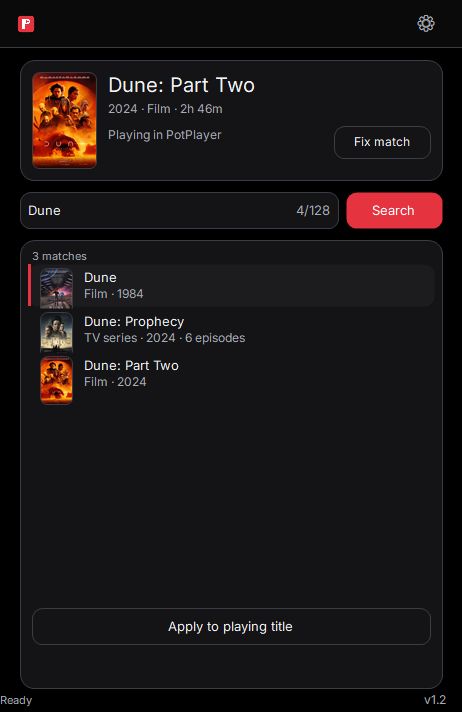
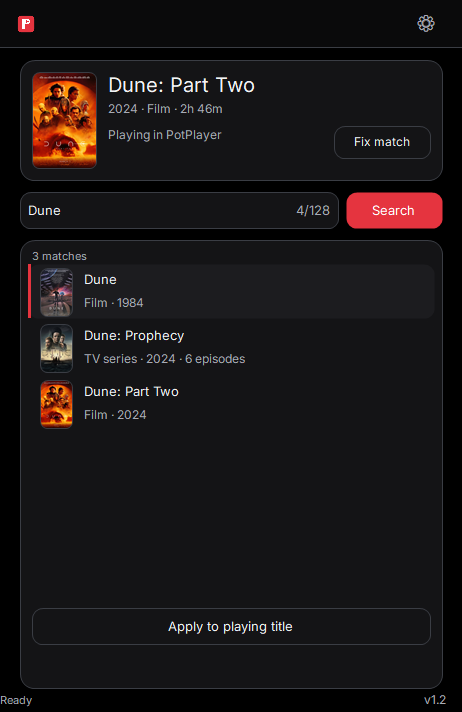
fix(window): every result thumb fills its tile and shows whole

Changed region(s): [[0.0606, 0.3708, 0.5455, 0.618], [0.0909, 0.3708, 0.1515, 0.4017], [0.0606, 0.1545, 0.0909, 0.1854]]

diff --git a/rust/crates/potflix-win/src/artwork.rs b/rust/crates/potflix-win/src/artwork.rs
@@ -164,6 +164,39 @@ pub fn ensure_async(url: &str) {
     });
 }
 
+/// The source and destination rects for one cover blit into `slot`: the image
+/// is scaled to COVER the slot and centre-cropped, so every source fills the
+/// tile edge to edge whatever its aspect ratio is -- a landscape still fills a
+/// portrait slot instead of letterboxing or being stretched out of shape.
+/// `src` is in image pixels, `dst` is `slot` itself. `None` on a degenerate
+/// image or slot (nothing to draw).
+#[must_use]
+pub fn cover_rects(img_w: u32, img_h: u32, slot: win32::Rect) -> Option<(win32::Rect, win32::Rect)> {
+    let slot_w = i64::from(slot.right - slot.left);
+    let slot_h = i64::from(slot.bottom - slot.top);
+    if img_w == 0 || img_h == 0 || slot_w <= 0 || slot_h <= 0 {
+        return None;
+    }
+    let (iw, ih) = (i64::from(img_w), i64::from(img_h));
+    // Compare the two aspects without floats: iw/ih > sw/sh <=> iw*sh > ih*sw.
+    // The wider side gives up its excess, so the source always carries the
+    // slot's aspect and the blit never has a band to leave behind.
+    let (src_w, src_h) = if iw * slot_h > ih * slot_w {
+        ((ih * slot_w + slot_h / 2) / slot_h, ih)
+    } else {
+        (iw, (iw * slot_h + slot_w / 2) / slot_w)
+    };
+    let src_w = src_w.clamp(1, iw);
+    let src_h = src_h.clamp(1, ih);
+    let src = win32::Rect {
+        left: ((iw - src_w) / 2) as i32,
+        top: ((ih - src_h) / 2) as i32,
+        right: ((iw + src_w) / 2) as i32,
+        bottom: ((ih + src_h) / 2) as i32,
+    };
+    Some((src, slot))
+}
+
 /// One decoded cover. The GDI+ image lives until the frame's paint returns;
 /// [`Drop`] disposes it exactly once.
 pub struct Cover {
@@ -221,15 +254,21 @@ impl Cover {
     }
 
     /// Draw the cover into `rc` through the live GDI+ context. A rounded clip
-    /// keeps the tile's corner shape; the image is scaled to fill the rect.
+    /// keeps the tile's corner shape; the image is scaled to COVER the rect and
+    /// centre-cropped (see [`cover_rects`]), so a landscape source fills a
+    /// portrait tile instead of letterboxing inside it.
     pub(crate) fn draw(&self, graphics: *mut gp::GpGraphics, rc: win32::Rect, radius: i32) {
         use gp::{
             CombineModeReplace, GdipAddPathArcI, GdipClosePathFigure, GdipCreatePath,
-            GdipDeletePath, GdipDrawImageRectI, GdipResetClip, GdipSetClipPath, FillModeAlternate,
+            GdipDeletePath, GdipDrawImageRectRectI, GdipResetClip, GdipSetClipPath,
+            FillModeAlternate, UnitPixel,
         };
-        if graphics.is_null() || rc.right <= rc.left || rc.bottom <= rc.top {
+        if graphics.is_null() {
             return;
         }
+        let Some((src, dst)) = cover_rects(self.width, self.height, rc) else {
+            return;
+        };
         let mut path: *mut gp::GpPath = std::ptr::null_mut();
         // SAFETY: every handle is created and released within this call.
         unsafe {
@@ -247,13 +286,21 @@ impl Cover {
                 GdipClosePathFigure(path);
                 GdipSetClipPath(graphics, path, CombineModeReplace);
             }
-            GdipDrawImageRectI(
+            GdipDrawImageRectRectI(
                 graphics,
                 self.image as *mut gp::GpImage,
-                rc.left,
-                rc.top,
-                rc.right - rc.left,
-                rc.bottom - rc.top,
+                dst.left,
+                dst.top,
+                dst.right - dst.left,
+                dst.bottom - dst.top,
+                src.left,
+                src.top,
+                src.right - src.left,
+                src.bottom - src.top,
+                UnitPixel,
+                std::ptr::null(),
+                0,
+                std::ptr::null_mut(),
             );
             if r > 0 {
                 GdipResetClip(graphics);
@@ -282,6 +329,97 @@ mod tests {
         assert!(!is_http_url("file:///cover.png"));
         assert!(!is_http_url("https://"));
         assert!(!is_http_url(&format!("https://example.com/{}", "x".repeat(300))));
+    }
+
+    /// A cover must COVER its slot: the destination is the slot edge to edge
+    /// (no letterbox band, no stretch) and the source is a centre-biased crop
+    /// that carries the slot's own aspect. The result rows and the hero cover
+    /// both paint through this one geometry, so a landscape poster in a
+    /// portrait tile cannot read as a different shape than its neighbours.
+    #[test]
+    fn a_cover_crops_to_fill_its_slot_whatever_the_source_aspect() {
+        // The 32x48 result thumb: the portrait slot the rows use.
+        let slot = win32::Rect {
+            left: 10,
+            top: 20,
+            right: 42,
+            bottom: 68,
+        };
+        let slot_ratio = 32.0 / 48.0;
+
+        // A 16:9 still in a portrait slot: crop the sides, never letterbox.
+        let (src, dst) = cover_rects(1600, 900, slot).expect("a 16:9 cover has rects");
+        assert_eq!(
+            (dst.left, dst.top, dst.right, dst.bottom),
+            (10, 20, 42, 68),
+            "the tile is covered edge to edge, so no band can show"
+        );
+        assert_eq!(
+            (src.top, src.bottom),
+            (0, 900),
+            "a wide source keeps its full height and gives up the sides"
+        );
+        assert!(
+            (src.left - (1600 - src.right)).abs() <= 1,
+            "the crop is centre-biased: {}..{} of 1600",
+            src.left,
+            src.right
+        );
+        let src_ratio = f64::from(src.right - src.left) / f64::from(src.bottom - src.top);
+        assert!(
+            (src_ratio - slot_ratio).abs() < 0.02,
+            "the crop carries the slot's aspect {slot_ratio:.3}, got {src_ratio:.3}"
+        );
+
+        // A portrait poster (the common case) into the same slot: full width,
+        // crop the height.
+        for (w, h) in [(2000u32, 3000u32), (913, 1426)] {
+            let (src, dst) = cover_rects(w, h, slot).expect("portrait cover has rects");
+            assert_eq!((dst.right - dst.left, dst.bottom - dst.top), (32, 48));
+            assert_eq!(
+                (src.left, src.right),
+                (0, w as i32),
+                "a tall source keeps its full width"
+            );
+            assert!(
+                (src.top - (h as i32 - src.bottom)).abs() <= 1,
+                "the crop is centre-biased: {}..{} of {h}",
+                src.top,
+                src.bottom
+            );
+            let src_ratio = f64::from(src.right - src.left) / f64::from(src.bottom - src.top);
+            assert!(
+                (src_ratio - slot_ratio).abs() < 0.02,
+                "{w}x{h} crop carries the slot's aspect {slot_ratio:.3}, got {src_ratio:.3}"
+            );
+        }
+
+        // A square source is wider than this slot, so it gives up the sides and
+        // keeps its full height -- the same rule, not a special case.
+        let (src, _) = cover_rects(1000, 1000, slot).expect("square cover has rects");
+        assert_eq!((src.top, src.bottom), (0, 1000), "a square keeps its height");
+        assert!(
+            (src.left - (1000 - src.right)).abs() <= 1,
+            "the crop is centre-biased: {}..{} of 1000",
+            src.left,
+            src.right
+        );
+
+        // Degenerate input draws nothing rather than inventing a rect.
+        assert!(cover_rects(0, 900, slot).is_none());
+        assert!(
+            cover_rects(
+                1600,
+                900,
+                win32::Rect {
+                    left: 0,
+                    top: 0,
+                    right: 0,
+                    bottom: 48
+                }
+            )
+            .is_none()
+        );
     }
 
     #[test]

diff --git a/rust/crates/potflix-win/src/window.rs b/rust/crates/potflix-win/src/window.rs
@@ -13776,7 +13776,7 @@ fn picker_capacity(l: &CardLayout, dpi: i32) -> usize {
         return 0;
     }
     let top = l.picker_results.top + sc(24);
-    let row_h = sc(44);
+    let row_h = sc(RESULT_ROW_H_L);
     let action_rows = l
         .btns
         .iter()
@@ -13814,7 +13814,7 @@ fn picker_row_rects(l: &CardLayout, count: usize, top: usize, dpi: i32) -> Vec<R
     let first = top;
     let last = (first + capacity).min(count);
     let base = l.picker_results.top + sc(24);
-    let row_h = sc(44);
+    let row_h = sc(RESULT_ROW_H_L);
     (first..last)
         .enumerate()
         .map(|(pos, _)| Rect {
@@ -22487,6 +22487,51 @@ mod tests {
             COL_BG,
             "the result overlay was not painted over the stage"
         );
+    }
+
+    /// The result row must be tall enough for the cover thumb it paints. The
+    /// thumb is a fixed 32x48; a row shorter than that lets the NEXT row's
+    /// fill paint over the previous thumb's bottom edge, so the tile loses its
+    /// rounded bottom clip and its artwork is cut while the last row's tile is
+    /// whole -- one column, two shapes, which reads as a rendering bug.
+    #[test]
+    fn every_picker_row_contains_its_cover_thumb() {
+        for dpi in [96, 120, 144, 192] {
+            let l = compute_card_layout_state(
+                462 * dpi / 96,
+                712 * dpi / 96,
+                dpi,
+                &CardSpecs::default(),
+                CardKind::Series,
+                PreviewSurface::default(),
+                &CardLayoutState {
+                    advanced: false,
+                    has_selection: true,
+                    can_apply: true,
+                    playing: true,
+                    filter: crate::search::KindFilter::All,
+                },
+            );
+            let rows = picker_row_rects(&l, 3, 0, dpi);
+            assert_eq!(rows.len(), 3, "dpi {dpi}: the three rows are all visible");
+            for (i, rc) in rows.iter().enumerate() {
+                let t = narrow::result_row_thumb(*rc, dpi);
+                assert!(
+                    t.top >= rc.top && t.right <= rc.right,
+                    "dpi {dpi} row {i}: thumb {:?} starts inside the row {rc:?}",
+                    t
+                );
+                assert!(
+                    t.bottom <= rc.bottom,
+                    "dpi {dpi} row {i}: the thumb bottom {} overflows the row bottom {} \
+                     (row height {}, thumb height {})",
+                    t.bottom,
+                    rc.bottom,
+                    rc.bottom - rc.top,
+                    t.bottom - t.top
+                );
+            }
+        }
     }
 
     /// With Advanced open the picker viewport holds one row at the default

diff --git a/rust/crates/potflix-win/src/narrow.rs b/rust/crates/potflix-win/src/narrow.rs
@@ -313,6 +313,18 @@ pub fn hero(
 // `window::paint_narrow_card` (via the results panel loop).
 // ---------------------------------------------------------------------------
 
+/// The 32x48 cover thumb of one result row. Pure, so the paint and the test
+/// that proves the thumb fits inside the row read the same rect.
+pub fn result_row_thumb(rc: Rect, dpi: i32) -> Rect {
+    let sc = |v: i32| scale_px(dpi, v);
+    Rect {
+        left: rc.left + sc(SP_3),
+        top: rc.top + sc(SP_1),
+        right: rc.left + sc(SP_3) + sc(32),
+        bottom: rc.top + sc(SP_1) + sc(48),
+    }
+}
+
 /// Paint one 56px result row: 32x48 cover thumb (the decoded poster when its
 /// bytes are cached, else the empty tile), 13 semibold title, 12 muted
 /// record-only meta. Selected gets the hover fill plus the accent left bar.
@@ -351,12 +363,7 @@ pub fn result_row(
     }
     // 32x48 cover thumb: the decoded poster when cached, else the empty
     // tile. Same tile painter as the hero cover, so rows and hero agree.
-    let thumb = Rect {
-        left: rc.left + sc(SP_3),
-        top: rc.top + sc(SP_1),
-        right: rc.left + sc(SP_3) + sc(32),
-        bottom: rc.top + sc(SP_1) + sc(48),
-    };
+    let thumb = result_row_thumb(rc, dpi);
     super::paint_cover(hdc, thumb, dpi, cover);
     let title_font = crate::brand::ui(sc(FS_ROW_TITLE), crate::brand::UI_WEIGHT);
     let meta_font = crate::brand::ui(sc(FS_HERO_META), crate::brand::UI_WEIGHT);
